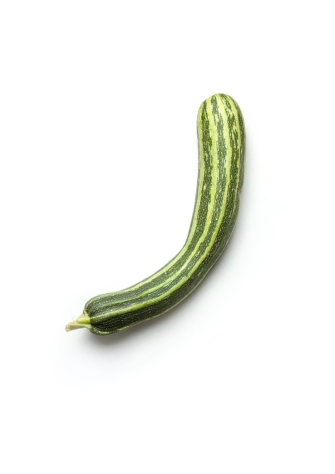
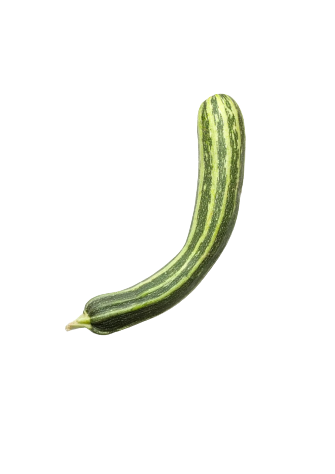
card

Changed region(s): [[0.2388, 0.2658, 0.7463, 0.7679]]

diff --git a/src/components/Ui/Card/Card.scss b/src/components/Ui/Card/Card.scss
@@ -1,14 +1,73 @@
 .card{
-    width: 335px;
-    height: 483px;
+    width: 290px;
+    height: 420px;
     border-radius: 30px;
     background: var(--bg-color);
-    padding: 25px;
+    padding: 17px 30px;
+    display: flex;
+    flex-direction: column;
+    justify-content: center;
+    align-items: start;
+    gap: 9.5rem;
 
     .card-img{
-        position: absolute;
-        left: 0;
-        top: 73px;
+        position: relative;
+
+        img{
+            width: 300px;
+            position: absolute;
+            top: -145px;
+            left: -40px;
+            filter: drop-shadow(-15px 20px 15px #c5bfbf);
+           
+        }
+    }
+
+    .card-variants{
+        padding: 5px 12px;
+        color: var(--color);
+        background: var(--dark-color);
+        border: none;
+        border-radius: 8px;
+        font-family: Open Sans;
+        font-size: 16px;
+        font-style: normal;
+        font-weight: 600;
+        line-height: normal; 
+    }
+
+    .card-info{
+        width: 235px;
+        border-bottom: 1px solid #DEDDDD;
+        display: flex;
+        padding-bottom: 13px;
+
+        h2{
+            color: #274C5B;
+            text-align: center;
+            font-family: Roboto;
+            font-size: 20px;
+            font-style: normal;
+            font-weight: 600;
+            line-height: normal; 
+        }
+    }
+
+    .card-price{
+        padding-top: 6px;
+        display: flex;
+        justify-content: space-between;
+        align-items: center;
+
+        p{
+            color: var(--dark-color);
+            text-align: center;
+            font-family: Open Sans;
+            font-size: 18px;
+            font-style: normal;
+            font-weight: 700;
+            line-height: normal; 
+        }
     }
 
 }

diff --git a/src/components/Ui/Card/Card.jsx b/src/components/Ui/Card/Card.jsx
@@ -1,22 +1,26 @@
-import React from 'react'
-import './Card.scss'
+import React from "react";
+import "./Card.scss";
 
-const Card = () => {
+const Card = ({Variants, image, title, price}) => {
   return (
     <div className="card">
-        <button>Vegetable</button>
-        <div className="card-img">
-            <img src="/public/assets/jsonImg/Photo.png" alt="" />
-        </div>
+      <button className="card-variants">{Variants}</button>
+      <div className="card-img">
+        <img src={image} alt="" />
+      </div>
+      <div className="card-block-info">
         <div className="card-info">
-            <h2>Calabrese Broccoli</h2>
+          <h2>{title}</h2>
         </div>
         <div className="card-price">
-            <span>$13.00</span>
-            <span><img src="/public/assets/Star.png" alt="" /></span>
+          <p>${price}.00</p>
+          <span>
+            <img src="/public/assets/Star.png" alt="" />
+          </span>
         </div>
+      </div>
     </div>
-  )
-}
+  );
+};
 
-export default Card
+export default Card;

diff --git a/src/pages/Shop/Shop.jsx b/src/pages/Shop/Shop.jsx
@@ -1,21 +1,34 @@
 import React from "react";
-import './Shop.scss'
+import "./Shop.scss";
 import Card from "../../components/Ui/Card/Card";
 
 const Shop = () => {
+  const cardArr = {
+    Variants: "Veagetable",
+    Image: "/public/assets/jsonImg/Photo.png",
+    title: "Calabrese Broccoli",
+    price: 12,
+  };
+
   return (
     <>
-    <section className='shop' >
-      <div className="container">
-        <div className="shop-content">
-          <h1>Shop</h1>
+      <section className="shop">
+        <div className="container">
+          <div className="shop-content">
+            <h1>Shop</h1>
+          </div>
         </div>
+      </section>
+      <div className="container mt-20 d-flex  justify-between">
+        <Card
+          Variants={cardArr.Variants}
+          image={cardArr.Image}
+          title={cardArr.title}
+          price={cardArr.price}
+        />
       </div>
-
-    </section>
-          <Card/>
     </>
-  )
+  );
 };
 
 export default Shop;
